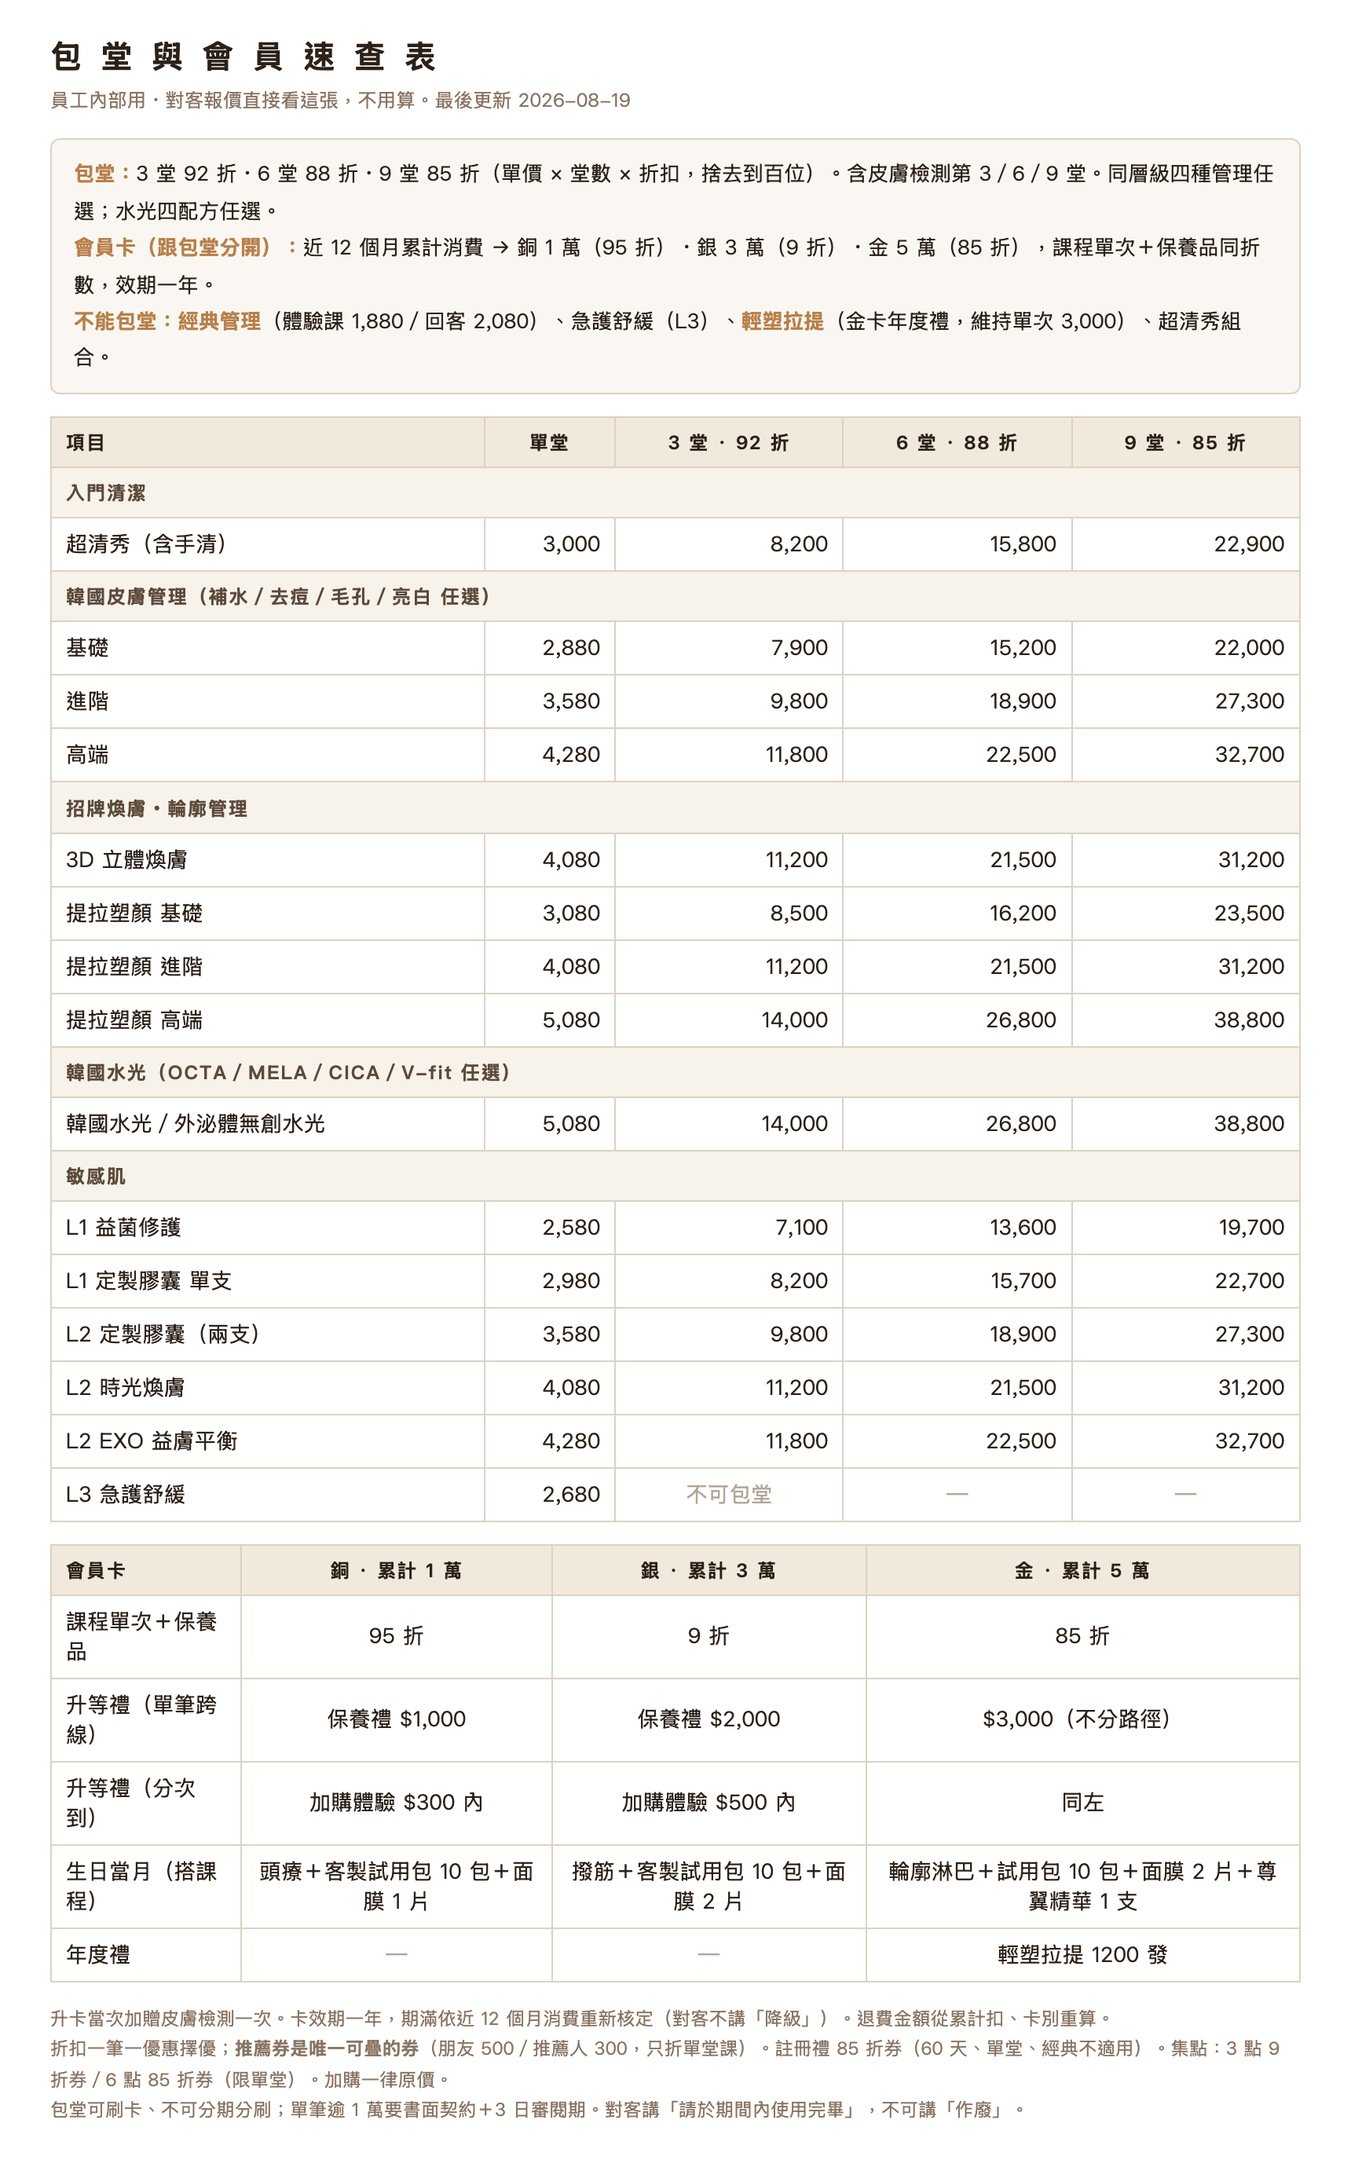
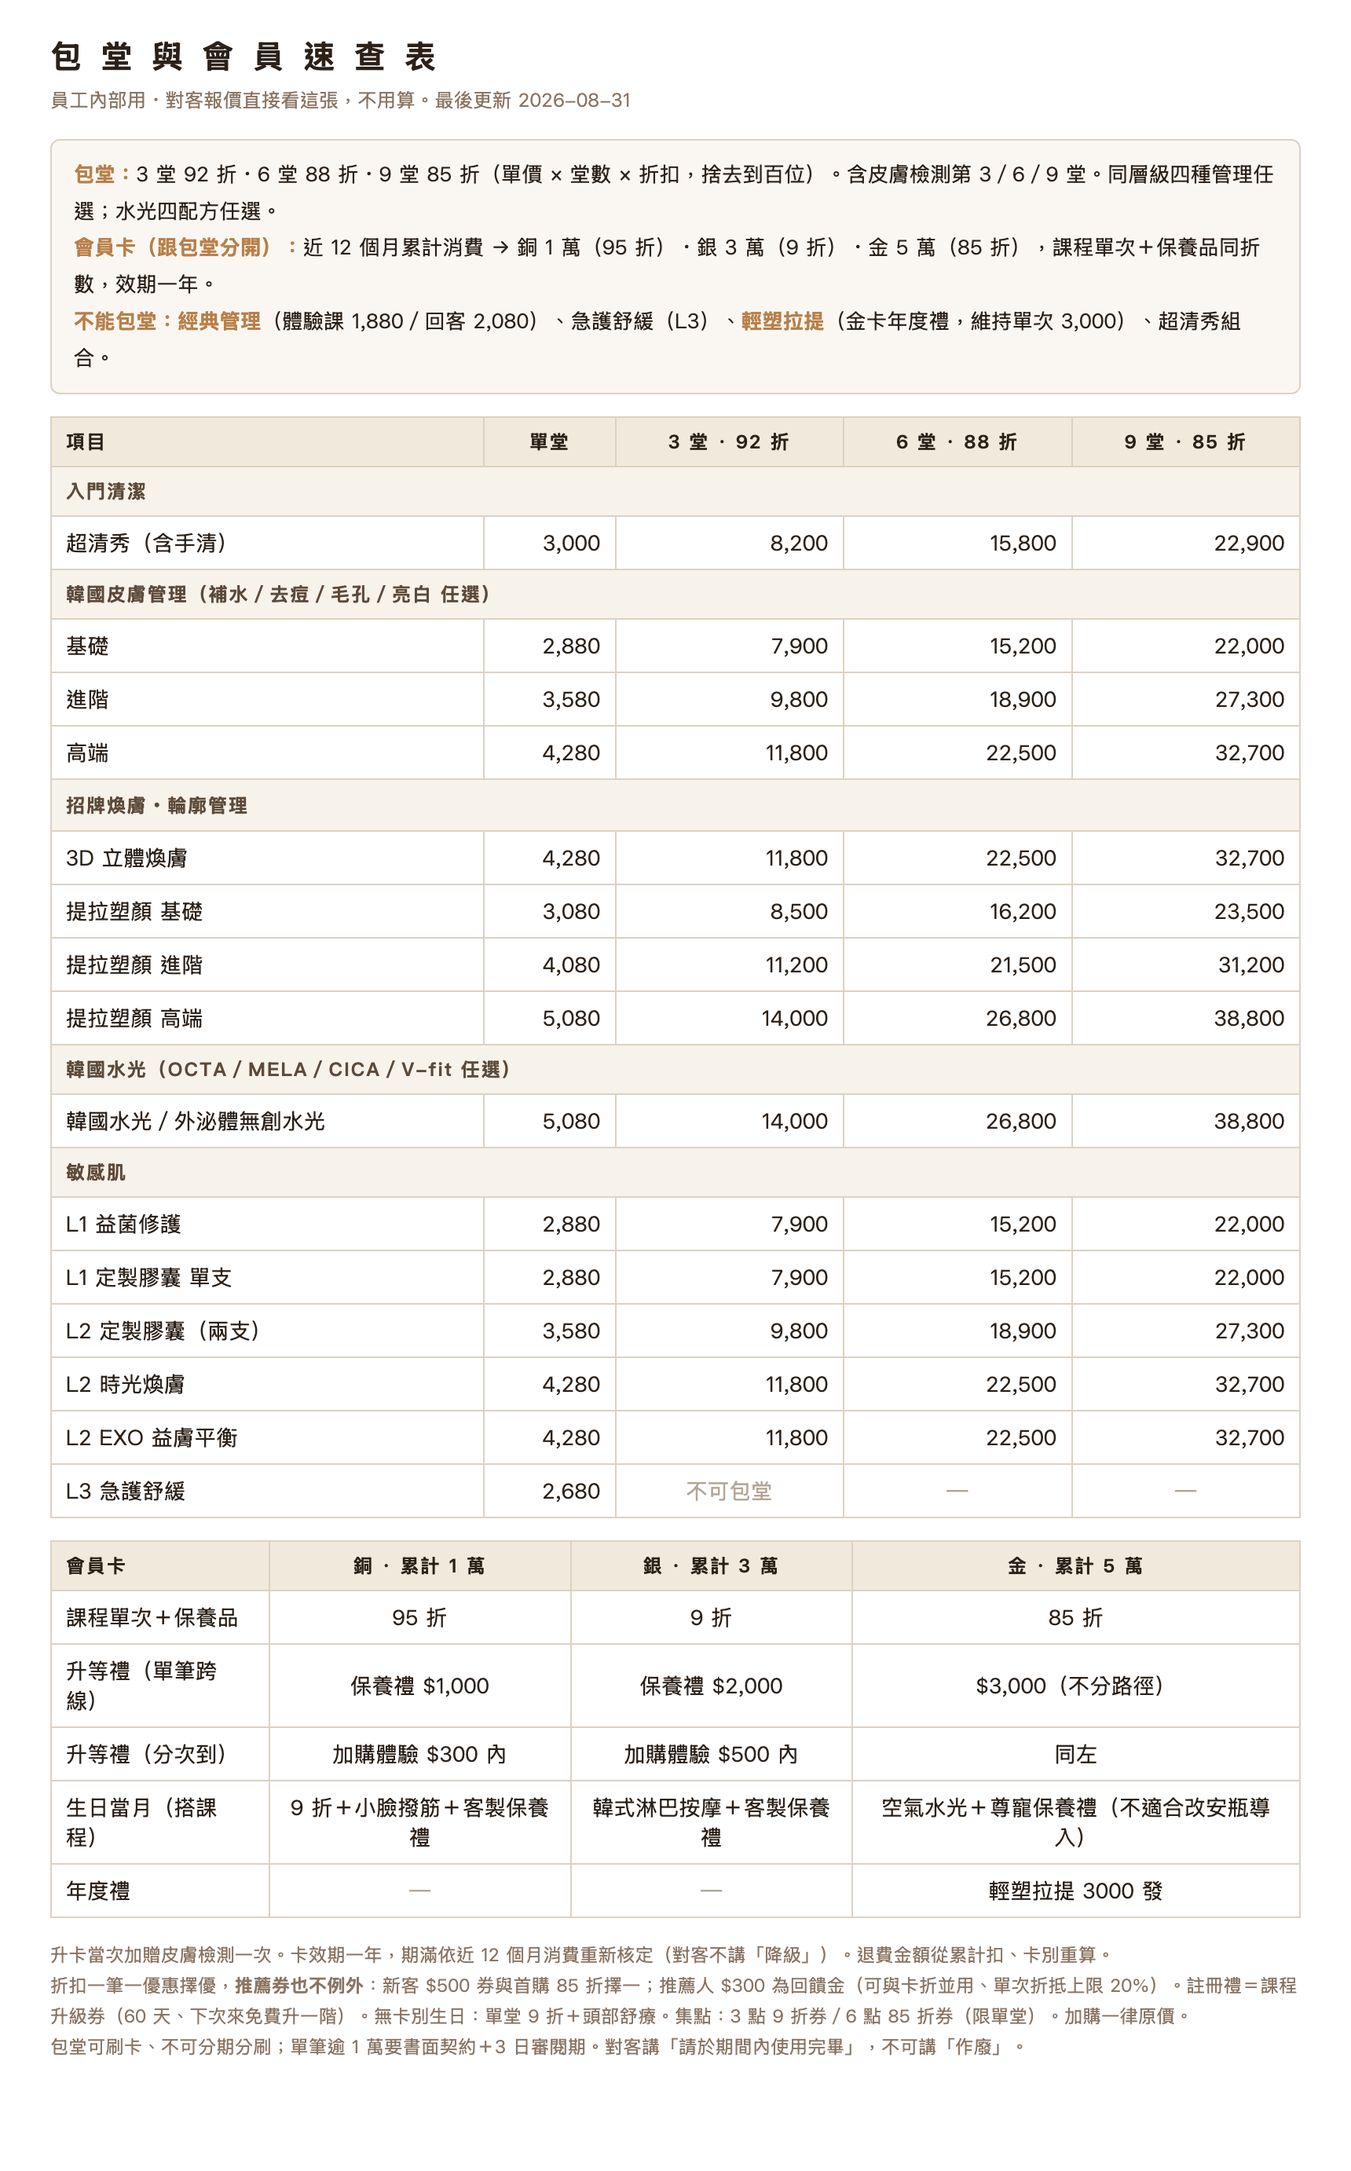
feat: 敏感線價格對齊全店級距＋3D 煥膚調價＋敏感包堂開放親友共用
- 敏感：益菌 2,580→2,880、定製膠囊單支 2,980→2,880、時光煥膚 4,080→4,280（膠囊兩支/EXO/急護不變）
- 3D 立體煥膚 4,080→4,280，包堂 11,800/22,500/32,700
- sensitive 注意事項移除「包堂不適用親友共用」
- 員工 SOP＋包堂速查（頁面與 PNG）同步；速查表尾舊制規則修正（推薦擇優/註冊升級券/生日階梯/年度禮 3000 發）

diff --git a/staff-sop-internal/index.html b/staff-sop-internal/index.html
@@ -1934,9 +1934,9 @@ const CATEGORIES = {
           </tr></thead>
           <tbody style="color:var(--ink-mid);">
             <tr style="border-top:1px solid var(--line-soft);"><td style="padding:7px 10px;">急護舒緩 $2,680</td><td style="text-align:center;">—</td><td style="text-align:center;">—</td><td style="text-align:center;">⭐ 首選</td></tr>
-            <tr style="border-top:1px solid var(--line-soft);"><td style="padding:7px 10px;">益菌修護 $2,580</td><td style="text-align:center;">⭐ 首選</td><td style="text-align:center;">✓ 清粉刺放輕</td><td style="text-align:center;">—</td></tr>
+            <tr style="border-top:1px solid var(--line-soft);"><td style="padding:7px 10px;">益菌修護 $2,880</td><td style="text-align:center;">⭐ 首選</td><td style="text-align:center;">✓ 清粉刺放輕</td><td style="text-align:center;">—</td></tr>
             <tr style="border-top:1px solid var(--line-soft);"><td style="padding:7px 10px;">定製膠囊 $3,580</td><td style="text-align:center;">✓</td><td style="text-align:center;">⭐ 首選</td><td style="text-align:center;">—（膠囊需 MTS）</td></tr>
-            <tr style="border-top:1px solid var(--line-soft);"><td style="padding:7px 10px;">時光煥膚 $4,080</td><td style="text-align:center;">✓</td><td style="text-align:center;">⭐ 首選</td><td style="text-align:center;">—（先急護舒緩）</td></tr>
+            <tr style="border-top:1px solid var(--line-soft);"><td style="padding:7px 10px;">時光煥膚 $4,280</td><td style="text-align:center;">✓</td><td style="text-align:center;">⭐ 首選</td><td style="text-align:center;">—（先急護舒緩）</td></tr>
             <tr style="border-top:1px solid var(--line-soft);"><td style="padding:7px 10px;">EXO 益膚平衡 $4,280</td><td style="text-align:center;">✓ 可 MTS</td><td style="text-align:center;">⭐ 首選</td><td style="text-align:center;">—（先急護舒緩）</td></tr>
           </tbody>
         </table>
@@ -2699,7 +2699,7 @@ const COURSES = {
   },
   'sens-lv1b': {
     name: '定製膠囊管理', category: 'sensitive', level: 1, metaTc: 'Level 1 · 單支定製',
-    desc: '輕度敏感 · 單支定製膠囊加強對症｜$2,980', status: 'pending'
+    desc: '輕度敏感 · 單支定製膠囊加強對症｜$2,880', status: 'pending'
   },
   'sens-lv3': { name: '定製膠囊管理', category: 'sensitive', level: 3, metaTc: 'Level 2 · 定製膠囊', desc: '中度敏感（化妝水後明顯刺痛）· 含兩支客製膠囊｜第 3 支 +$500 加購｜膠囊需搭配 MTS 導入才有效，Level 3 急性期不安排', status: 'pending' },
   'sens-exo': {
@@ -3746,8 +3746,8 @@ COURSES['sens-lv1'].steps = [
 
             { type: 'sub-title', text: '敏感肌三級（2026-07 重組 · 依化妝水刺痛測試判級）' },
             { type: 'tag-table', rows: [
-              ['Level 1', '益菌修護 $2,580 / 單支定製膠囊 $2,980', '輕度敏感（化妝水正常用僅微刺）· 穩定期保養；益菌＝基礎修護＋益菌導入，單支膠囊＝想加強對症可小升單'],
-              ['Level 2', '定製膠囊 $3,580 / 時光煥膚 $4,080 / EXO 益膚平衡 $4,280', '中度敏感（化妝水後明顯刺痛）· 膠囊對症／時光完整滅火修復／EXO 適合反反覆覆的肌膚'],
+              ['Level 1', '益菌修護 $2,880 / 單支定製膠囊 $2,880', '輕度敏感（化妝水正常用僅微刺）· 穩定期保養；益菌＝基礎修護＋益菌導入，單支膠囊＝想加強對症可小升單'],
+              ['Level 2', '定製膠囊 $3,580 / 時光煥膚 $4,280 / EXO 益膚平衡 $4,280', '中度敏感（化妝水後明顯刺痛）· 膠囊對症／時光完整滅火修復／EXO 適合反反覆覆的肌膚'],
               ['Level 3', '急護舒緩 $2,680（唯一安排）', '正在過敏、急性泛紅、雷射/微針後 7 天內 — 純鎮靜不去角質不清粉刺、冰導入舒緩精華 · ⚠ 僅單次無包堂；退火後轉 Level 2（權益：7 天內免費檢視＋當日轉課 8 折須預約）']
             ]},
             { type: 'note', text: '定製膠囊管理內含 2 支客製膠囊，第 3 支 +$500 加購。' },
@@ -3795,7 +3795,7 @@ COURSES['sens-lv1'].steps = [
           body: '這頁顯示選的課程細節 + 膠囊搭配：',
           subSections: [
             { type: 'tip-list', items: [
-              '方案選擇：單次 vs 六堂包堂（85 折）',
+              '方案選擇：單次 vs 六堂包堂（88 折）',
               '膠囊選擇（定製膠囊管理才出現）：內含 2 支客製膠囊，第 3 支 +$500 加購',
               '方案合計：自動計算'
             ]},
@@ -5668,10 +5668,10 @@ COURSES['sens-lv1'].steps = [
   ];
 
   const UPGRADE_SENSITIVE = [
-    ['Level 1', '益菌修護管理', '$2,580', '輕度敏感（化妝水正常用、僅短暫微刺）、換季敏感、微生態失衡', '基礎修護完整流程<strong>＋益菌平衡導入</strong>，先把地基蓋好'],
-    ['Level 1', '定製膠囊管理', '$2,980', '輕度敏感、想比益菌更對症一點', '<strong>單支定製膠囊</strong>，比益菌更精準但還不到 Level 2 雙支的強度'],
+    ['Level 1', '益菌修護管理', '$2,880', '輕度敏感（化妝水正常用、僅短暫微刺）、換季敏感、微生態失衡', '基礎修護完整流程<strong>＋益菌平衡導入</strong>，先把地基蓋好'],
+    ['Level 1', '定製膠囊管理', '$2,880', '輕度敏感、想比益菌更對症一點', '<strong>單支定製膠囊</strong>，比益菌更精準但還不到 Level 2 雙支的強度'],
     ['Level 2', '定製膠囊管理', '$3,580', '中度敏感（化妝水後明顯刺痛數秒）', '<strong>兩支定製膠囊</strong>MTS 導入對症處理；第 3 支 +$500'],
-    ['Level 2', '時光煥膚管理', '$4,080', '慢性泛紅、玫瑰斑；想一堂完整滅火＋修復', '<strong>完整滅火＋修復</strong>：溫和煥膚＋彈力導入＋蛋白修復'],
+    ['Level 2', '時光煥膚管理', '$4,280', '慢性泛紅、玫瑰斑；想一堂完整滅火＋修復', '<strong>完整滅火＋修復</strong>：溫和煥膚＋彈力導入＋蛋白修復'],
     ['Level 2', 'EXO 益膚平衡管理', '$4,280', '反反覆覆、老是不穩定的肌膚；缺水型敏感', '<strong>外泌體＋乳酸菌</strong>幫皮膚補回自我修護力，敏感線天花板'],
     ['Level 3', '急護舒緩管理', '$2,680', '正在過敏的急性期、雷射/微針後 7 天內（唯一安排）', '<strong>純鎮靜滅火</strong>：不去角質不清粉刺、冰導入舒緩精華；權益：7 天內免費檢視＋當日轉 Level 2 課 8 折（須預約）']
   ];

diff --git a/staff-sop-internal/print-包堂速查.html b/staff-sop-internal/print-包堂速查.html
@@ -25,7 +25,7 @@
 </head>
 <body>
 <h1>包 堂 與 會 員 速 查 表</h1>
-<div class="sub">員工內部用・對客報價直接看這張，不用算。最後更新 2026-08-19</div>
+<div class="sub">員工內部用・對客報價直接看這張，不用算。最後更新 2026-08-31</div>
 
 <div class="rule">
   <b>包堂：</b>3 堂 92 折・6 堂 88 折・9 堂 85 折（單價 × 堂數 × 折扣，捨去到百位）。含皮膚檢測第 3／6／9 堂。同層級四種管理任選；水光四配方任選。<br>
@@ -43,17 +43,17 @@
     <tr><td>進階</td><td>3,580</td><td>9,800</td><td>18,900</td><td>27,300</td></tr>
     <tr><td>高端</td><td>4,280</td><td>11,800</td><td>22,500</td><td>32,700</td></tr>
     <tr><td class="grp" colspan="5">招牌煥膚・輪廓管理</td></tr>
-    <tr><td>3D 立體煥膚</td><td>4,080</td><td>11,200</td><td>21,500</td><td>31,200</td></tr>
+    <tr><td>3D 立體煥膚</td><td>4,280</td><td>11,800</td><td>22,500</td><td>32,700</td></tr>
     <tr><td>提拉塑顏 基礎</td><td>3,080</td><td>8,500</td><td>16,200</td><td>23,500</td></tr>
     <tr><td>提拉塑顏 進階</td><td>4,080</td><td>11,200</td><td>21,500</td><td>31,200</td></tr>
     <tr><td>提拉塑顏 高端</td><td>5,080</td><td>14,000</td><td>26,800</td><td>38,800</td></tr>
     <tr><td class="grp" colspan="5">韓國水光（OCTA／MELA／CICA／V-fit 任選）</td></tr>
     <tr><td>韓國水光／外泌體無創水光</td><td>5,080</td><td>14,000</td><td>26,800</td><td>38,800</td></tr>
     <tr><td class="grp" colspan="5">敏感肌</td></tr>
-    <tr><td>L1 益菌修護</td><td>2,580</td><td>7,100</td><td>13,600</td><td>19,700</td></tr>
-    <tr><td>L1 定製膠囊 單支</td><td>2,980</td><td>8,200</td><td>15,700</td><td>22,700</td></tr>
+    <tr><td>L1 益菌修護</td><td>2,880</td><td>7,900</td><td>15,200</td><td>22,000</td></tr>
+    <tr><td>L1 定製膠囊 單支</td><td>2,880</td><td>7,900</td><td>15,200</td><td>22,000</td></tr>
     <tr><td>L2 定製膠囊（兩支）</td><td>3,580</td><td>9,800</td><td>18,900</td><td>27,300</td></tr>
-    <tr><td>L2 時光煥膚</td><td>4,080</td><td>11,200</td><td>21,500</td><td>31,200</td></tr>
+    <tr><td>L2 時光煥膚</td><td>4,280</td><td>11,800</td><td>22,500</td><td>32,700</td></tr>
     <tr><td>L2 EXO 益膚平衡</td><td>4,280</td><td>11,800</td><td>22,500</td><td>32,700</td></tr>
     <tr><td>L3 急護舒緩</td><td>2,680</td><td class="na">不可包堂</td><td class="na">—</td><td class="na">—</td></tr>
   </tbody>
@@ -65,14 +65,14 @@
     <tr><td>課程單次＋保養品</td><td class="c">95 折</td><td class="c">9 折</td><td class="c">85 折</td></tr>
     <tr><td>升等禮（單筆跨線）</td><td class="c">保養禮 $1,000</td><td class="c">保養禮 $2,000</td><td class="c">$3,000（不分路徑）</td></tr>
     <tr><td>升等禮（分次到）</td><td class="c">加購體驗 $300 內</td><td class="c">加購體驗 $500 內</td><td class="c">同左</td></tr>
-    <tr><td>生日當月（搭課程）</td><td class="c">頭療＋客製試用包 10 包＋面膜 1 片</td><td class="c">撥筋＋客製試用包 10 包＋面膜 2 片</td><td class="c">輪廓淋巴＋試用包 10 包＋面膜 2 片＋尊翼精華 1 支</td></tr>
-    <tr><td>年度禮</td><td class="c na">—</td><td class="c na">—</td><td class="c">輕塑拉提 1200 發</td></tr>
+    <tr><td>生日當月（搭課程）</td><td class="c">9 折＋小臉撥筋＋客製保養禮</td><td class="c">韓式淋巴按摩＋客製保養禮</td><td class="c">空氣水光＋尊寵保養禮（不適合改安瓶導入）</td></tr>
+    <tr><td>年度禮</td><td class="c na">—</td><td class="c na">—</td><td class="c">輕塑拉提 3000 發</td></tr>
   </tbody>
 </table>
 
 <div class="foot">
   升卡當次加贈皮膚檢測一次。卡效期一年，期滿依近 12 個月消費重新核定（對客不講「降級」）。退費金額從累計扣、卡別重算。<br>
-  折扣一筆一優惠擇優；<b>推薦券是唯一可疊的券</b>（朋友 500／推薦人 300，只折單堂課）。註冊禮 85 折券（60 天、單堂、經典不適用）。集點：3 點 9 折券／6 點 85 折券（限單堂）。加購一律原價。<br>
+  折扣一筆一優惠擇優，<b>推薦券也不例外</b>：新客 $500 券與首購 85 折擇一；推薦人 $300 為回饋金（可與卡折並用、單次折抵上限 20%）。註冊禮＝課程升級券（60 天、下次來免費升一階）。無卡別生日：單堂 9 折＋頭部舒療。集點：3 點 9 折券／6 點 85 折券（限單堂）。加購一律原價。<br>
   包堂可刷卡、不可分期分刷；單筆逾 1 萬要書面契約＋3 日審閱期。對客講「請於期間內使用完畢」，不可講「作廢」。
 </div>
 </body>

diff --git a/sensitive.html b/sensitive.html
@@ -362,7 +362,7 @@
         <div class="course-label">推 薦 課 程　單 次</div>
         <div class="course-name">益菌修護管理</div>
       </div>
-      <div class="price-single">2,580<span class="price-unit">元</span></div>
+      <div class="price-single">2,880<span class="price-unit">元</span></div>
     </div>
     <div class="course-row" style="border-top:1px dashed var(--divider); padding-bottom:16px;">
       <div>
@@ -370,7 +370,7 @@
         <div class="course-name">定製膠囊管理</div>
         <div class="course-detail">單支・比益菌更對症一點</div>
       </div>
-      <div class="price-single">2,980<span class="price-unit">元</span></div>
+      <div class="price-single">2,880<span class="price-unit">元</span></div>
     </div>
   </div>
 
@@ -397,7 +397,7 @@
         <div class="course-name">時光煥膚管理</div>
         <div class="course-detail">一堂完整滅火＋修復・慢性泛紅、玫瑰斑</div>
       </div>
-      <div class="price-single">4,080<span class="price-unit">元</span></div>
+      <div class="price-single">4,280<span class="price-unit">元</span></div>
     </div>
     <div class="course-row" style="border-top:1px dashed var(--divider); padding-bottom:16px;">
       <div>
@@ -485,7 +485,7 @@
     <div class="notice-item">7 天內做過雷射／微針／換膚，或正在過敏中，一律視為 Level 3</div>
     <div class="notice-item">乾性敏感肌膚如有粉刺，將視當日肌膚狀態評估，以低刺激手法審慎處置，以屏障保護為優先</div>
     <div class="notice-item">包堂：三堂 92 折・六堂 88 折・九堂 85 折，含皮膚檢測（第 3／6／9 堂），建議於 3／6／9 個月內使用完畢，修護才會連續</div>
-    <div class="notice-item">敏感肌課程依個人當日 Level 判定，包堂不適用親友共用</div>
+    <div class="notice-item">敏感肌課程依個人當日 Level 判定，實際課程以現場評估為準</div>
   </div>
 </div>
 

diff --git a/general.html b/general.html
@@ -558,9 +558,9 @@
   </div>
   <div class="pk3-title">提拉塑顏 進階 包堂</div>
   <div class="pk3">
-    <div><div class="pk3-l">3 堂 · 92 折</div><div class="pk3-p">11,200</div></div>
-    <div><div class="pk3-l">6 堂 · 88 折</div><div class="pk3-p">21,500</div></div>
-    <div><div class="pk3-l">9 堂 · 85 折</div><div class="pk3-p">31,200</div></div>
+    <div><div class="pk3-l">3 堂 · 92 折</div><div class="pk3-p">11,800</div></div>
+    <div><div class="pk3-l">6 堂 · 88 折</div><div class="pk3-p">22,500</div></div>
+    <div><div class="pk3-l">9 堂 · 85 折</div><div class="pk3-p">32,700</div></div>
   </div>
   <div class="pk3-title">提拉塑顏 高端 包堂</div>
   <div class="pk3">
@@ -586,14 +586,14 @@
       <div class="entry-card-name">3D 立體煥膚　單次</div>
       <div class="entry-card-desc" style="margin-bottom:0;">果酸＋海洋矽質微粒・毛孔粗糙、暗沉痘疤</div>
     </div>
-    <div class="price">4,080<span class="price-u">元</span></div>
+    <div class="price">4,280<span class="price-u">元</span></div>
   </div>
 
   <div class="pk3-title">3D 立體煥膚 包堂（角質代謝完整週期建議 6 堂以上）</div>
   <div class="pk3">
-    <div><div class="pk3-l">3 堂 · 92 折</div><div class="pk3-p">11,200</div></div>
-    <div><div class="pk3-l">6 堂 · 88 折</div><div class="pk3-p">21,500</div></div>
-    <div><div class="pk3-l">9 堂 · 85 折</div><div class="pk3-p">31,200</div></div>
+    <div><div class="pk3-l">3 堂 · 92 折</div><div class="pk3-p">11,800</div></div>
+    <div><div class="pk3-l">6 堂 · 88 折</div><div class="pk3-p">22,500</div></div>
+    <div><div class="pk3-l">9 堂 · 85 折</div><div class="pk3-p">32,700</div></div>
   </div>
 </div>
 
